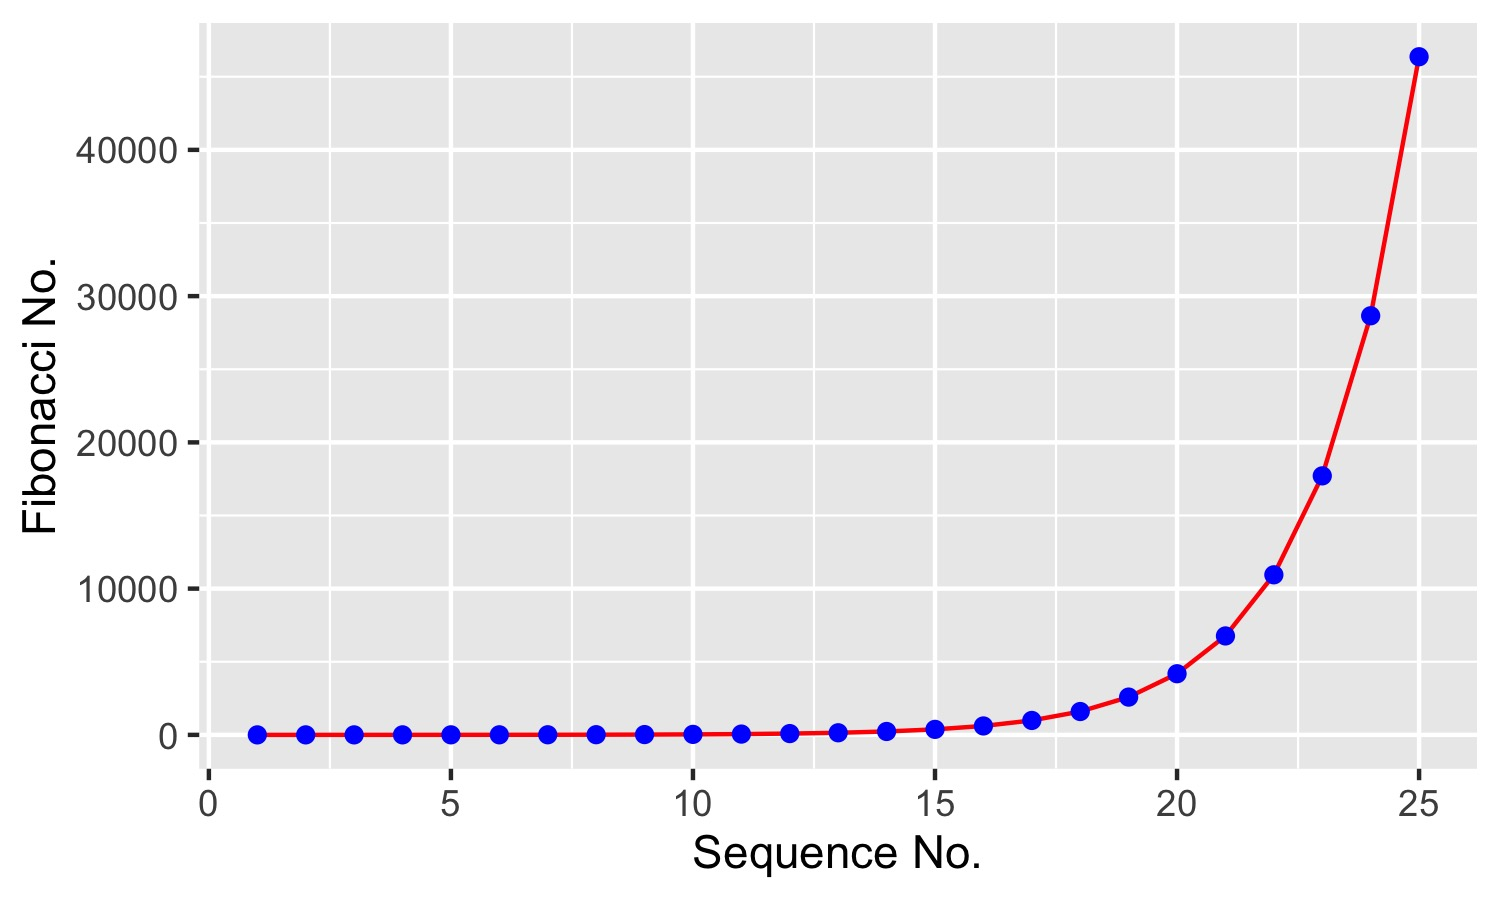
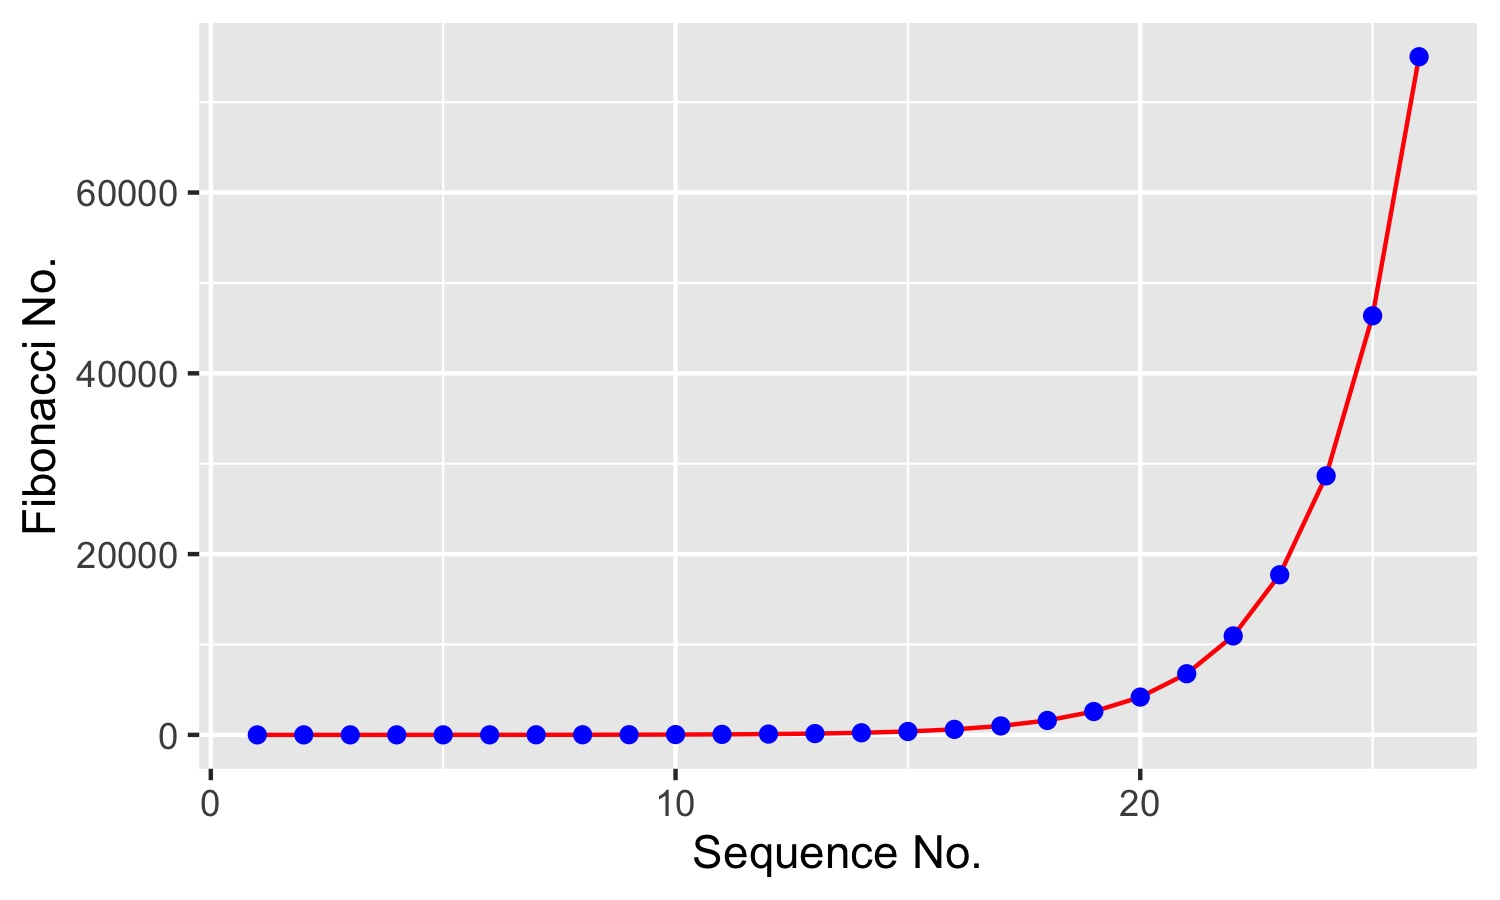
Update fibonacci fig

diff --git a/content/03.main.md b/content/03.main.md
@@ -23,10 +23,10 @@ The first 26 Fibonacci numbers are shown in Table @tbl:tbl1 and Figure @fig:fig1
 | 12  | 89       | 25  | 46368    |
 | 13  | 144      | 26  | 75025    |
 
-Table: The first 25 Fibonacci numbers
+Table: The first 26 Fibonacci numbers
 {#tbl:tbl1}
 
-### Figure 1 -- The first 25 Fibonacci numbers
+### Figure 1 -- The first 26 Fibonacci numbers
 ![The first 25 Fibonacci numbers](images/fibonacci.jpg){#fig:fig1}
 
 In in nunc. Class aptent taciti sociosqu ad litora torquent per conubia nostra, per inceptos hymenaeos. Donec ullamcorper fringilla eros. Fusce in sapien eu purus dapibus commodo. Cum sociis natoque penatibus et magnis dis parturient montes, nascetur ridiculus mus. Cras faucibus condimentum odio. Sed ac ligula. Aliquam at eros. Etiam at ligula et tellus ullamcorper ultrices. In fermentum, lorem non cursus porttitor, diam urna accumsan lacus, sed interdum wisi nibh nec nisl [@doi:10.1038/d41586-019-03632-y].
